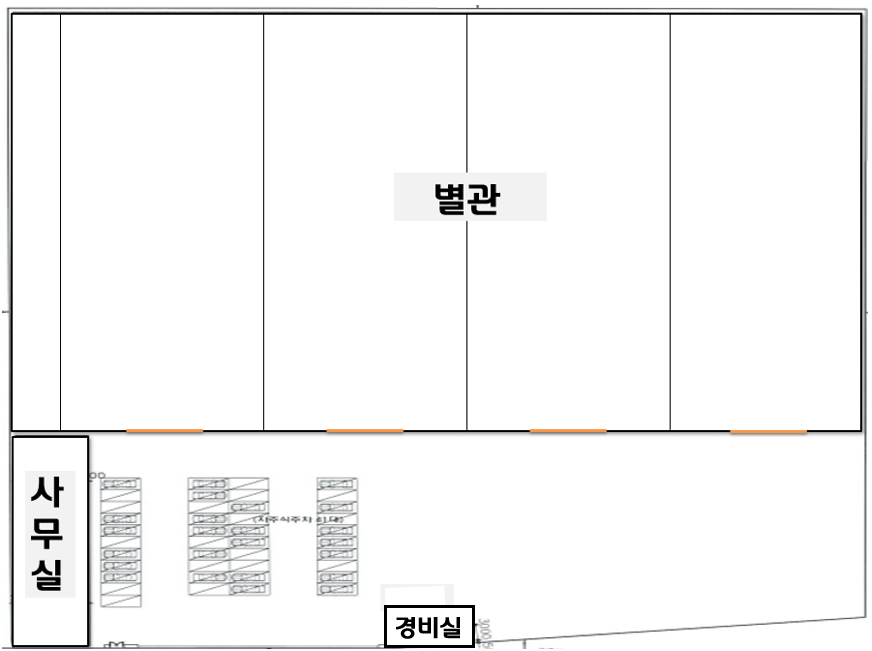
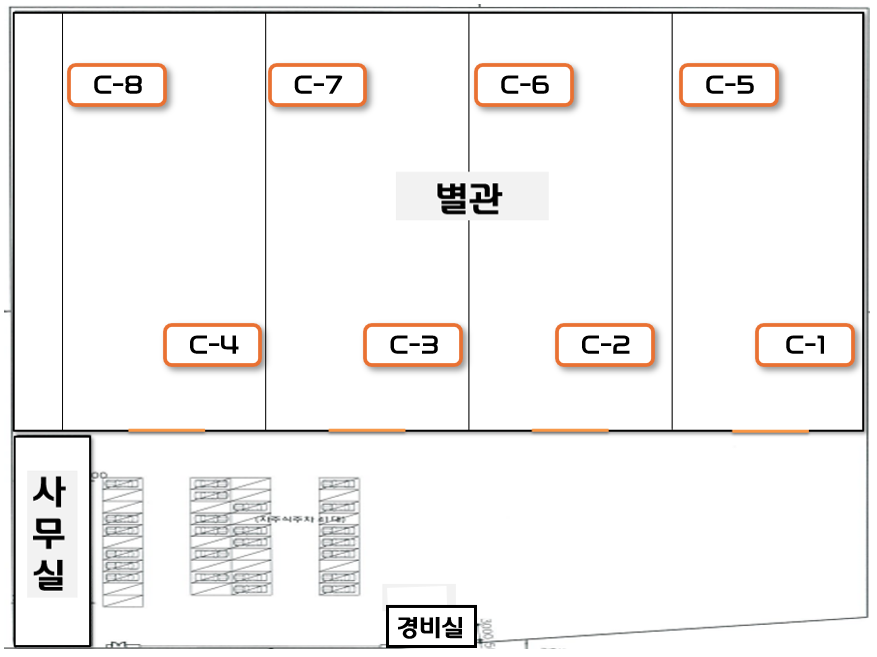
feat: update floor plans and add coordinate mapping
Update building images and implement a coordinate mapping system in RequestDetail to visualize stop-work locations based on predefined presets.

diff --git a/src/pages/RequestDetail.tsx b/src/pages/RequestDetail.tsx
@@ -105,24 +105,79 @@ export default function RequestDetail() {
 
           {(() => {
             const locationMatch = request.location?.match(/^(.*?) \(X:(\d+)%, Y:(\d+)%\)$/);
-            if (!locationMatch) return null;
-            const buildingName = locationMatch[1];
-            const markerX = parseInt(locationMatch[2], 10);
-            const markerY = parseInt(locationMatch[3], 10);
+            
+            let buildingName = '';
+            let markerX = null;
+            let markerY = null;
+
+            // 관리자 모드에서 A-1, B-2 등 텍스트만 있을 때 점을 찍어주기 위한 좌표 매핑 (퍼센트 기준)
+            const PREDEFINED_COORDINATES: Record<string, {x: number, y: number}> = {
+              'A-1': { x: 81, y: 10 },
+              'A-2': { x: 49, y: 17 },
+              'A-3': { x: 23, y: 9 },
+              'A-4': { x: 81, y: 25 },
+              'A-5': { x: 49, y: 32 },
+              'A-6': { x: 23, y: 25 },
+              'A-7': { x: 81, y: 40 },
+              'A-8': { x: 49, y: 48 },
+              'A-9': { x: 23, y: 40 },
+              'A-10': { x: 81, y: 55 },
+              'A-11': { x: 49, y: 64 },
+              'A-12': { x: 23, y: 55 },
+              'A-13': { x: 23, y: 70 },
+              'A-14': { x: 49, y: 79 },
+              'A-15': { x: 23, y: 95 },
+              
+              'B-1': { x: 52, y: 18 },
+              'B-2': { x: 52, y: 92 },
+              'B-3': { x: 71, y: 38 },
+              'B-4': { x: 23, y: 7 },
+              'B-5': { x: 7, y: 55 },
+              'B-6': { x: 23, y: 92 },
+              
+              'C-1': { x: 91, y: 50 },
+              'C-2': { x: 68, y: 50 },
+              'C-3': { x: 47, y: 50 },
+              'C-4': { x: 24, y: 50 },
+              'C-5': { x: 82, y: 13 },
+              'C-6': { x: 60, y: 13 },
+              'C-7': { x: 37, y: 13 },
+              'C-8': { x: 13, y: 13 },
+            };
+
+            if (locationMatch) {
+              buildingName = locationMatch[1];
+              markerX = parseInt(locationMatch[2], 10);
+              markerY = parseInt(locationMatch[3], 10);
+            } else {
+              const upperLoc = (request.location || '').trim().toUpperCase();
+              if (/^A-([1-9]|1[0-5])$/.test(upperLoc)) buildingName = '본관 A동';
+              else if (/^B-[1-6]$/.test(upperLoc)) buildingName = '본관 B동';
+              else if (/^C-[1-8]$/.test(upperLoc)) buildingName = '별관';
+
+              if (buildingName && PREDEFINED_COORDINATES[upperLoc]) {
+                markerX = PREDEFINED_COORDINATES[upperLoc].x;
+                markerY = PREDEFINED_COORDINATES[upperLoc].y;
+              }
+            }
+
+            if (!buildingName) return null;
 
             return (
               <div>
                 <h3 className="text-xs font-bold text-slate-400 uppercase tracking-widest mb-3">도면 위치 ({buildingName})</h3>
                 <div className="relative w-full max-w-2xl border border-slate-200 rounded-xl overflow-hidden bg-slate-50">
                   <img 
-                    src={`/${buildingName}.png`} 
+                    src={`/${buildingName}.png?v=2`} 
                     alt={`${buildingName} 도면`} 
                     className="w-full h-auto"
                   />
-                  <div 
-                    className="absolute w-4 h-4 md:w-6 md:h-6 bg-red-600 rounded-full border-2 border-white shadow-[0_0_0_4px_rgba(220,38,38,0.2)] transform -translate-x-1/2 -translate-y-1/2 animate-pulse"
-                    style={{ left: `${markerX}%`, top: `${markerY}%` }}
-                  />
+                  {markerX !== null && markerY !== null && (
+                    <div 
+                      className="absolute w-4 h-4 md:w-6 md:h-6 bg-red-600 rounded-full border-2 border-white shadow-[0_0_0_4px_rgba(220,38,38,0.2)] transform -translate-x-1/2 -translate-y-1/2 animate-pulse"
+                      style={{ left: `${markerX}%`, top: `${markerY}%` }}
+                    />
+                  )}
                 </div>
               </div>
             );

diff --git a/src/pages/WorkerStopPage.tsx b/src/pages/WorkerStopPage.tsx
@@ -25,6 +25,9 @@ export default function WorkerStopPage() {
   const [isSubmitting, setIsSubmitting] = useState(false);
   const [submitted, setSubmitted] = useState(false);
 
+  const KNOWN_BUILDINGS = ['본관 A동', '본관 B동', '별관'];
+  const isKnownBuilding = KNOWN_BUILDINGS.includes(location);
+
   useEffect(() => {
     // Remove manifest if it somehow got added (safeguard)
     const manifest = document.querySelector('link[rel="manifest"]');
@@ -35,12 +38,14 @@ export default function WorkerStopPage() {
     e.preventDefault();
     if (!project || !location || !workerName || !reason) return;
     
-    if (!coordinates) {
+    if (isKnownBuilding && !coordinates) {
       alert('도면에서 정확한 위치를 클릭하여 선택해주세요.');
       return;
     }
 
-    const finalLocation = `${location} (X:${Math.round(coordinates.x)}%, Y:${Math.round(coordinates.y)}%)`;
+    const finalLocation = (isKnownBuilding && coordinates)
+      ? `${location} (X:${Math.round(coordinates.x)}%, Y:${Math.round(coordinates.y)}%)`
+      : location;
 
     setIsSubmitting(true);
     try {
@@ -137,28 +142,31 @@ export default function WorkerStopPage() {
             
             <div>
               <label className="block text-[10px] uppercase tracking-widest font-bold text-slate-500 mb-1">상세 위치</label>
-              <select
+              <input
+                type="text"
+                list="building-list"
                 required
                 value={location}
                 onChange={(e) => {
                   setLocation(e.target.value);
                   setCoordinates(null);
                 }}
-                className="w-full px-4 py-3 bg-slate-50 border border-slate-200 rounded-xl focus:ring-2 focus:ring-red-500 focus:border-red-500 outline-none transition-all text-sm font-medium appearance-none"
-              >
-                <option value="" disabled>건물을 선택해주세요</option>
-                <option value="본관 A동">본관 A동</option>
-                <option value="본관 B동">본관 B동</option>
-                <option value="별관">별관</option>
-              </select>
+                className="w-full px-4 py-3 bg-slate-50 border border-slate-200 rounded-xl focus:ring-2 focus:ring-red-500 focus:border-red-500 outline-none transition-all text-sm font-medium"
+                placeholder="예: 본관 A동, 또는 NFC 자동 기입"
+              />
+              <datalist id="building-list">
+                <option value="본관 A동" />
+                <option value="본관 B동" />
+                <option value="별관" />
+              </datalist>
             </div>
 
-            {location && (
+            {isKnownBuilding && (
               <div className="mt-4">
                 <label className="block text-[10px] uppercase tracking-widest font-bold text-slate-500 mb-2">도면에서 정확한 위치 선택</label>
                 <div className="relative w-full border border-slate-200 rounded-xl overflow-hidden bg-slate-50">
                   <img 
-                    src={`/${location}.png`} 
+                    src={`/${location}.png?v=2`} 
                     alt="Floor plan" 
                     className="w-full h-auto cursor-crosshair"
                     onClick={(e) => {
